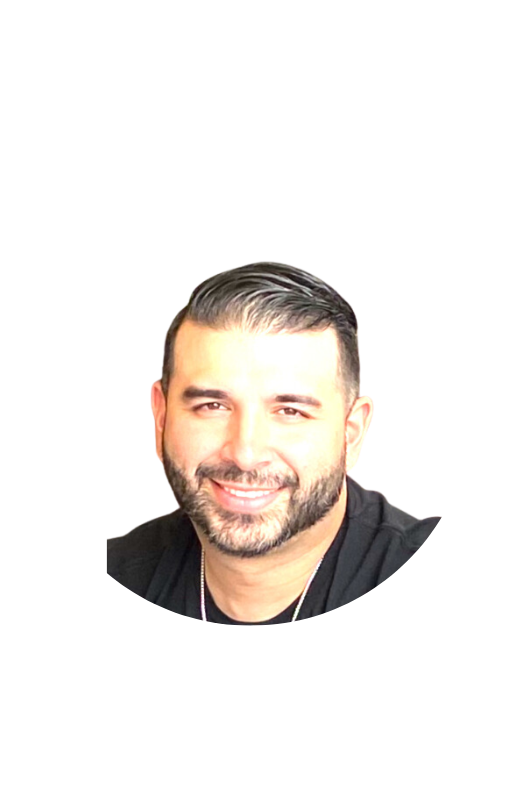
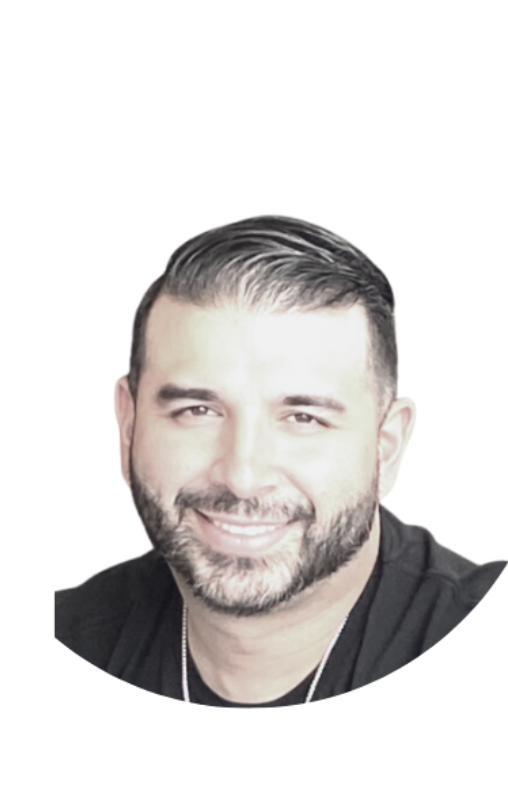
fixed the size and shape of my profile picture and about me picture (#6)

diff --git a/style.css b/style.css
@@ -306,7 +306,7 @@ section {
 }
 
 .section__pic-container {
-    height: 400px;
-    width: 400px;
+    height: 600px;
+    width: 600px;
     margin: auto 0;
 }
